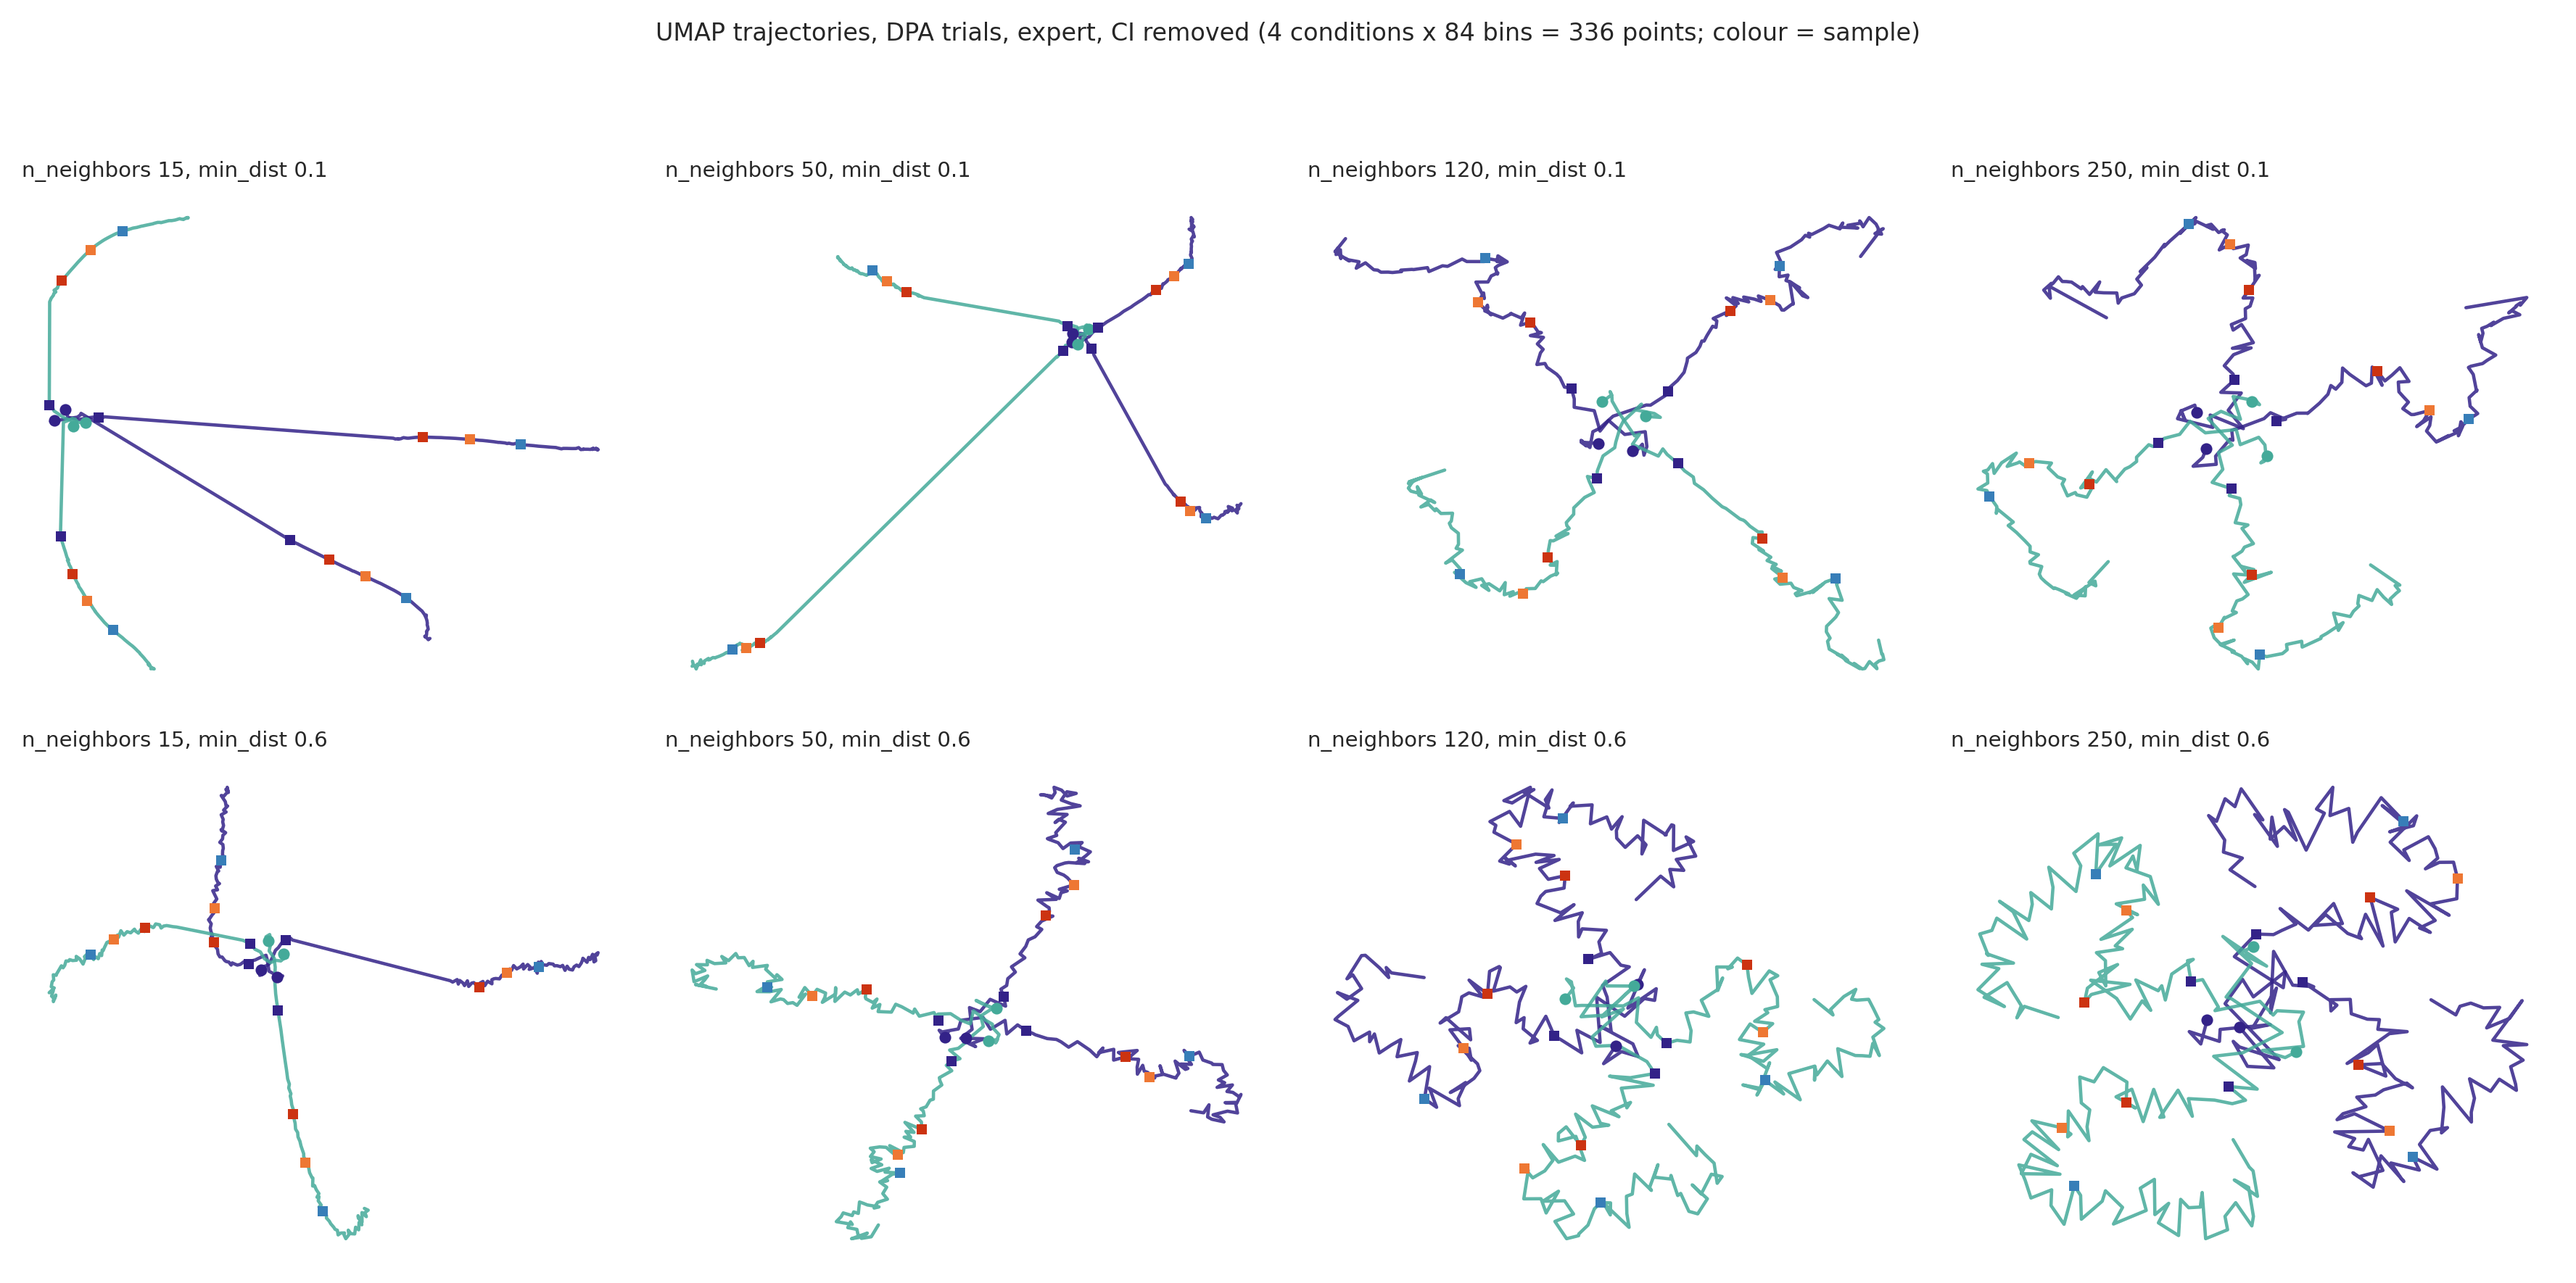
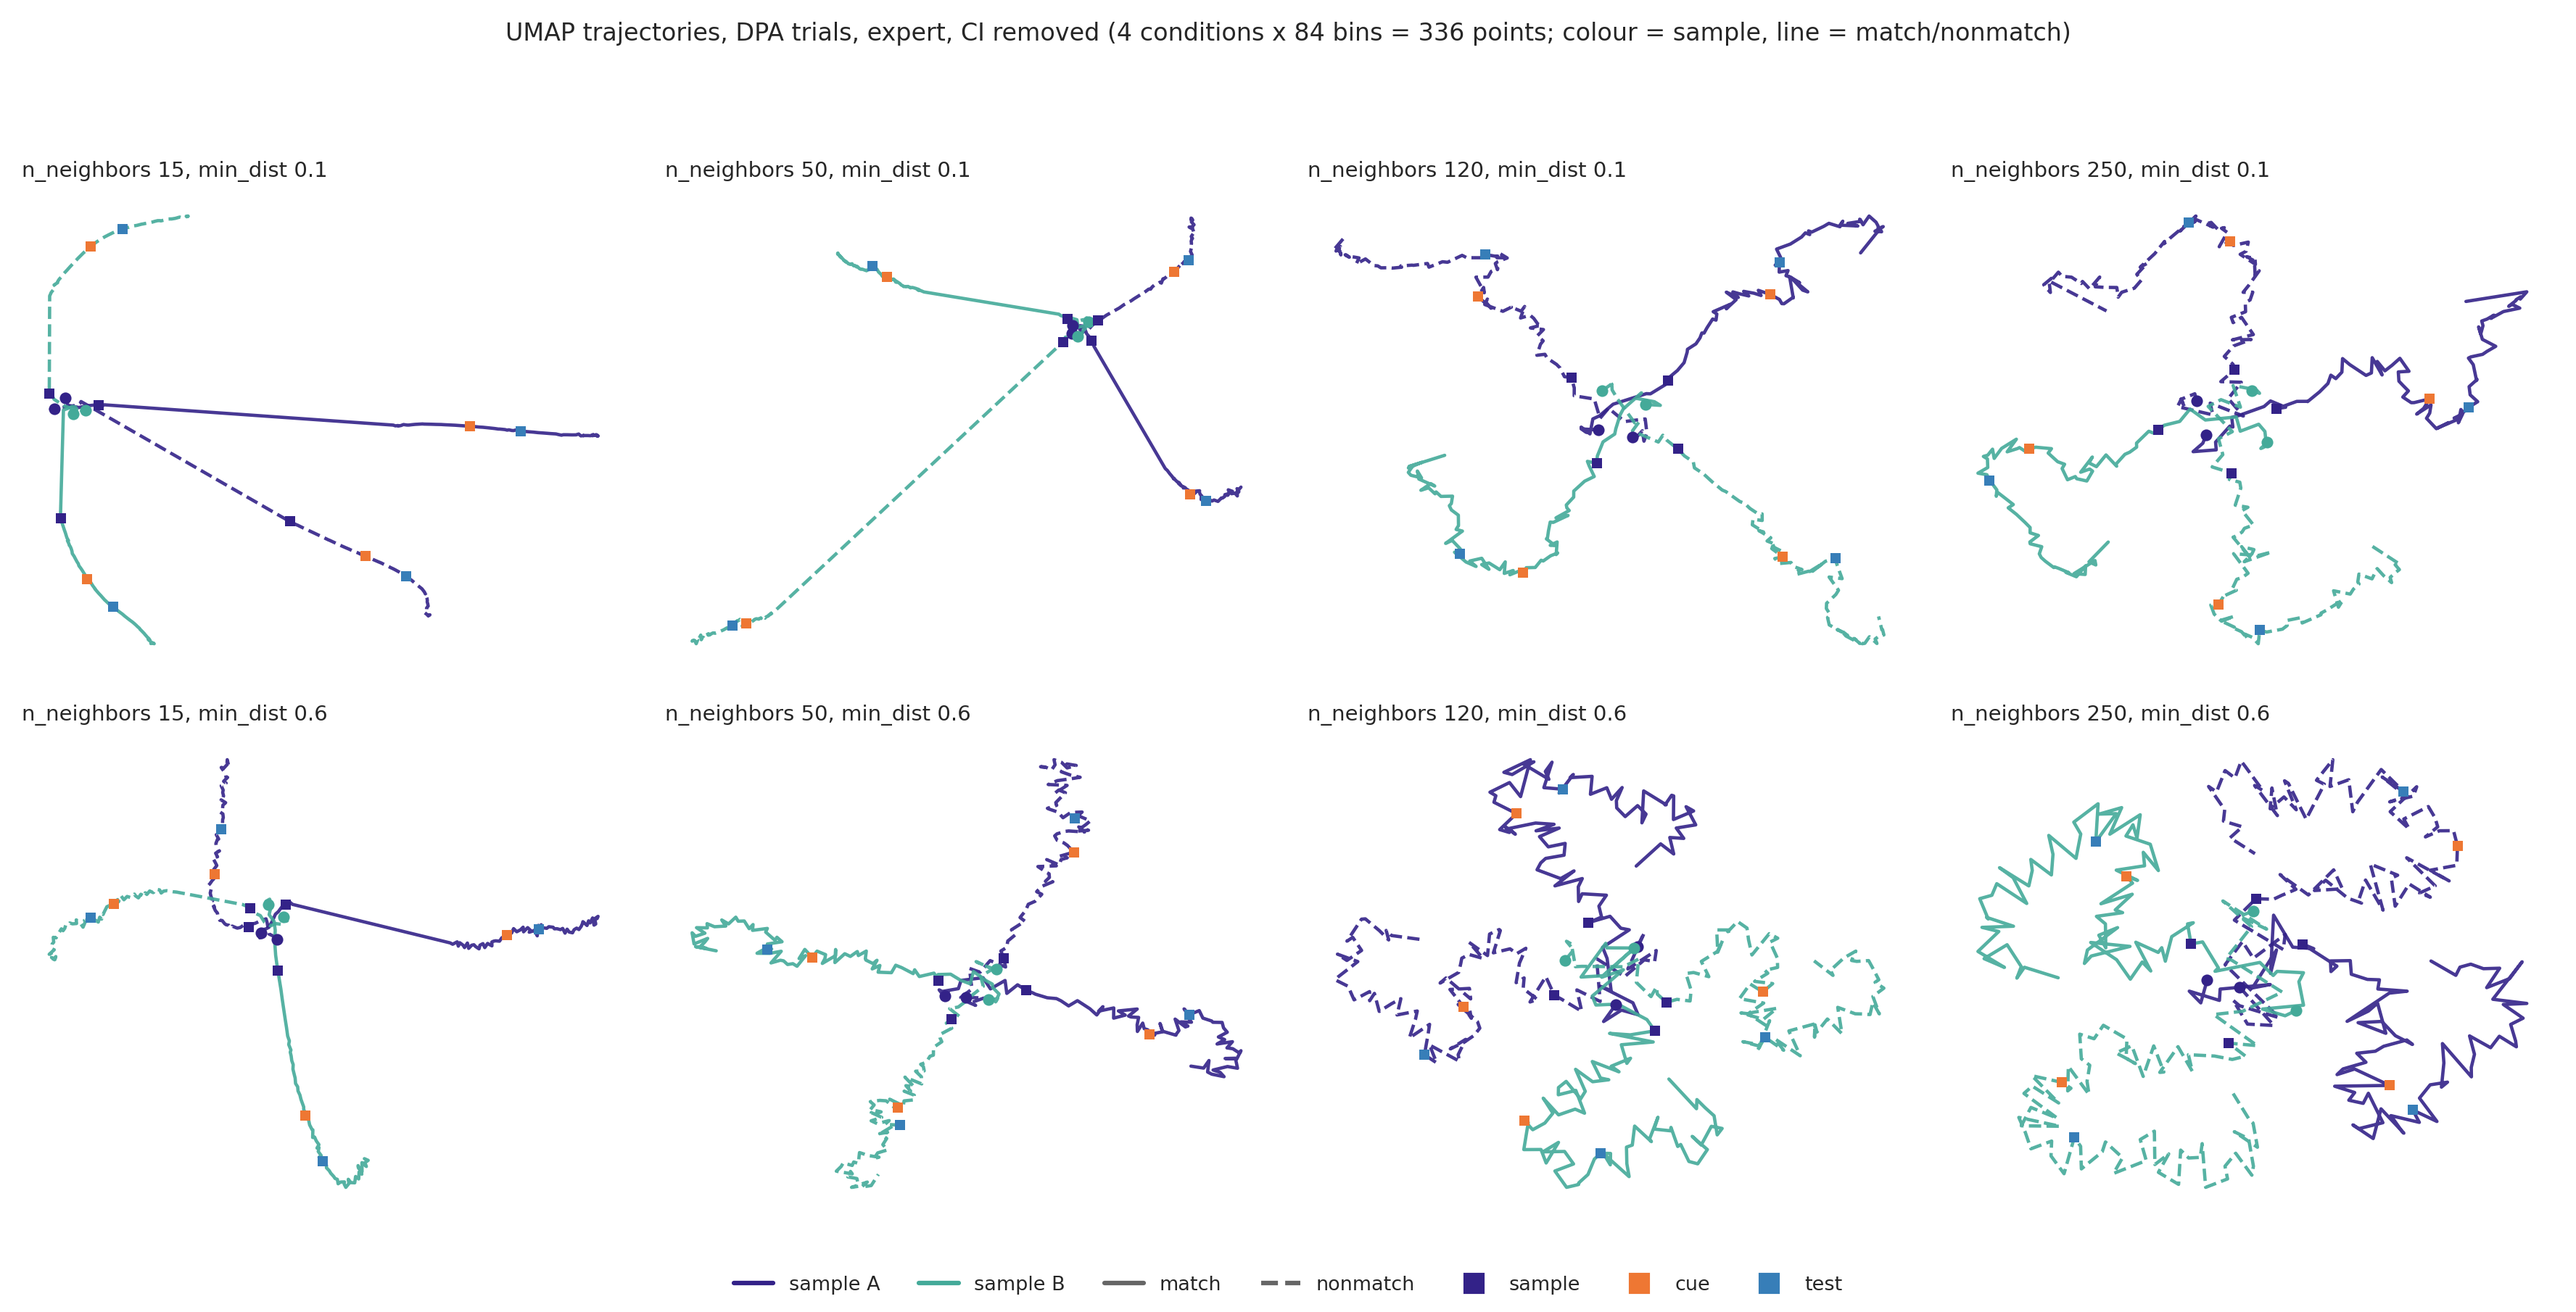
DPA-trial UMAP parameter sweep in the same grid as the dual one (GNG marker removed: DPA trials carry no Go/NoGo odor)
Claude-Session: https://claude.ai/code/session_01PzGzWMKHPqqyp4poHedntF

diff --git a/pca/exp_umap_traj_sweep_dpa.py b/pca/exp_umap_traj_sweep_dpa.py
@@ -1,0 +1,43 @@
+"""exp_umap_traj_sweep_dpa.py — the dual-trial parameter sweep, repeated on DPA trials (Leon 2026-09-18).
+Same grid as umap_traj_sweep_dual.png: n_neighbors x min_dist, expert, condition-independent component removed.
+DPA trials carry no Go/NoGo odor, so only the sample, cue and test onsets are marked.
+"""
+import matplotlib; matplotlib.use('Agg')
+import sys, os, warnings, pickle
+warnings.filterwarnings('ignore'); sys.path.insert(0, '/home/leon/dual/'); os.chdir(os.path.dirname(os.path.abspath(__file__)))
+import numpy as np
+from sklearn.decomposition import PCA
+import umap, seaborn as sns, matplotlib.pyplot as plt, matplotlib.lines as mlines
+sns.set_context('notebook'); sns.set_style('ticks')
+plt.rcParams.update({'figure.dpi': 150, 'savefig.dpi': 300, 'font.family': 'sans-serif', 'font.sans-serif': ['Arial', 'DejaVu Sans'], 'axes.titlesize': 8, 'svg.fonttype': 'none'})
+ALL12 = [(t, s, te) for t in ['DPA', 'DualGo', 'DualNoGo'] for s in (0, 1) for te in (0, 1)]
+DPA = [c for c in ALL12 if c[0] == 'DPA']
+SAMPC = {0: '#332288', 1: '#44AA99'}
+EVENTS = [(12, 'sample', '#332288'), (39, 'cue', '#ee7733'), (54, 'test', '#377eb8')]   # no GNG odor on DPA trials
+NB, SM = 84, 5
+CMBIN = pickle.load(open('figures/pseudo/dimensionality/results.pkl', 'rb'))['CMBIN']
+sel = [ALL12.index(c) for c in DPA]
+CM = np.asarray(CMBIN['Expert'], float)[sel]; k = np.ones(SM) / SM
+CM = np.apply_along_axis(lambda v: np.convolve(v, k, mode='same'), 2, CM); CM = CM - CM.mean(0, keepdims=True)
+Z = CM.transpose(0, 2, 1).reshape(-1, CM.shape[1]); sd = Z.std(0); sd[sd < 1e-9] = 1.0
+P = PCA(50, random_state=0).fit_transform((Z - Z.mean(0)) / sd)
+NN, MD = [15, 50, 120, 250], [0.1, 0.6]
+fig, axs = plt.subplots(len(MD), len(NN), figsize=(3.0 * len(NN), 3.0 * len(MD)))
+for r, md in enumerate(MD):
+    for c, nn in enumerate(NN):
+        E = umap.UMAP(n_components=2, n_neighbors=min(nn, len(P) - 1), min_dist=md, metric='euclidean', random_state=0).fit_transform(P)
+        ax = axs[r, c]
+        for ci, cd in enumerate(DPA):
+            tr = E[ci * NB:(ci + 1) * NB]; match = cd[1] == cd[2]
+            ax.plot(tr[:, 0], tr[:, 1], '-' if match else '--', color=SAMPC[cd[1]], lw=1.1, alpha=0.9, zorder=2)
+            ax.scatter(tr[0, 0], tr[0, 1], s=15, color=SAMPC[cd[1]], marker='o', lw=0, zorder=4)
+            for b, _, col in EVENTS: ax.scatter(tr[b, 0], tr[b, 1], s=12, color=col, marker='s', lw=0, zorder=5)
+        ax.set_xticks([]); ax.set_yticks([]); [sp.set_visible(False) for sp in ax.spines.values()]
+        ax.set_title(f'n_neighbors {nn}, min_dist {md}', loc='left', fontsize=7)
+        print(f'DPA expert nn={nn} md={md}: done', flush=True)
+hs = [mlines.Line2D([0], [0], color=SAMPC[s], label=f'sample {"A" if s == 0 else "B"}') for s in SAMPC] + \
+     [mlines.Line2D([0], [0], color='0.4', ls='-', label='match'), mlines.Line2D([0], [0], color='0.4', ls='--', label='nonmatch')] + \
+     [mlines.Line2D([0], [0], marker='s', ls='none', color=c, label=n) for _, n, c in EVENTS]
+fig.legend(handles=hs, loc='lower center', ncol=7, frameon=False, fontsize=6.5)
+fig.suptitle(f'UMAP trajectories, DPA trials, expert, CI removed (4 conditions x 84 bins = {len(P)} points; colour = sample, line = match/nonmatch)', fontsize=8)
+fig.tight_layout(rect=(0, 0.04, 1, 0.95)); fig.savefig('figures/pseudo/dimensionality/png/umap_traj_sweep_DPA.png', bbox_inches='tight'); print('saved')
